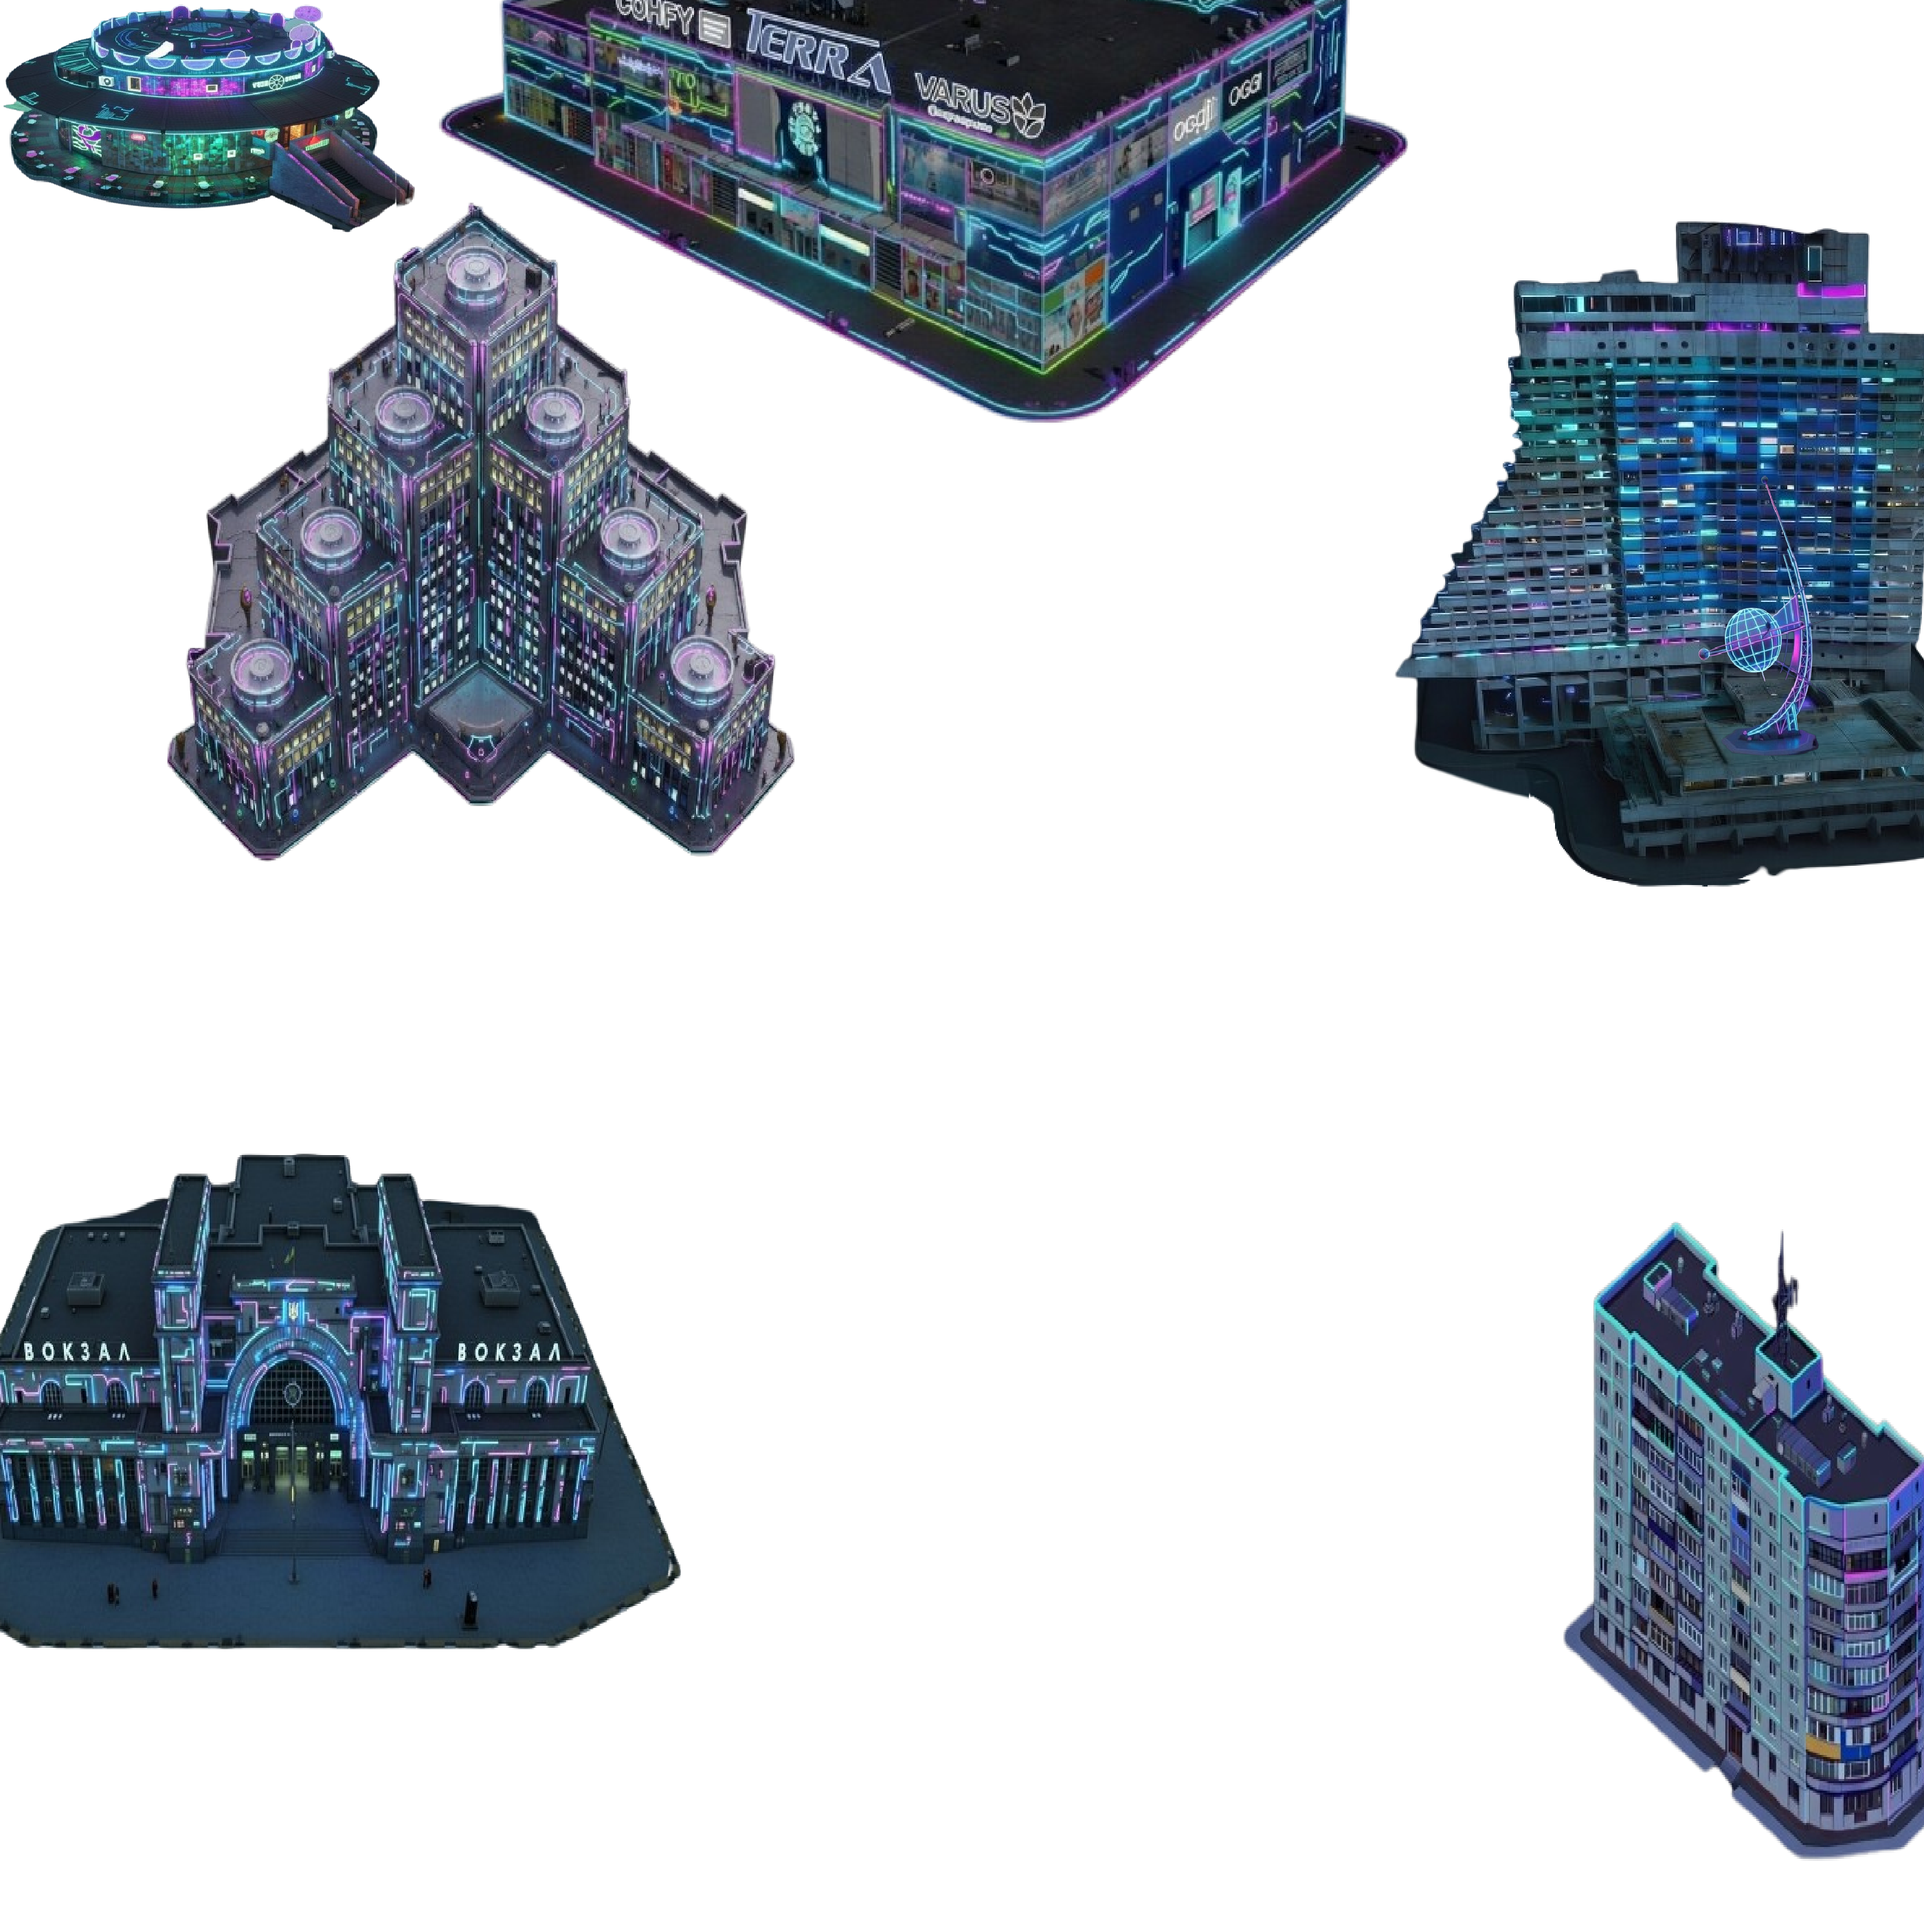
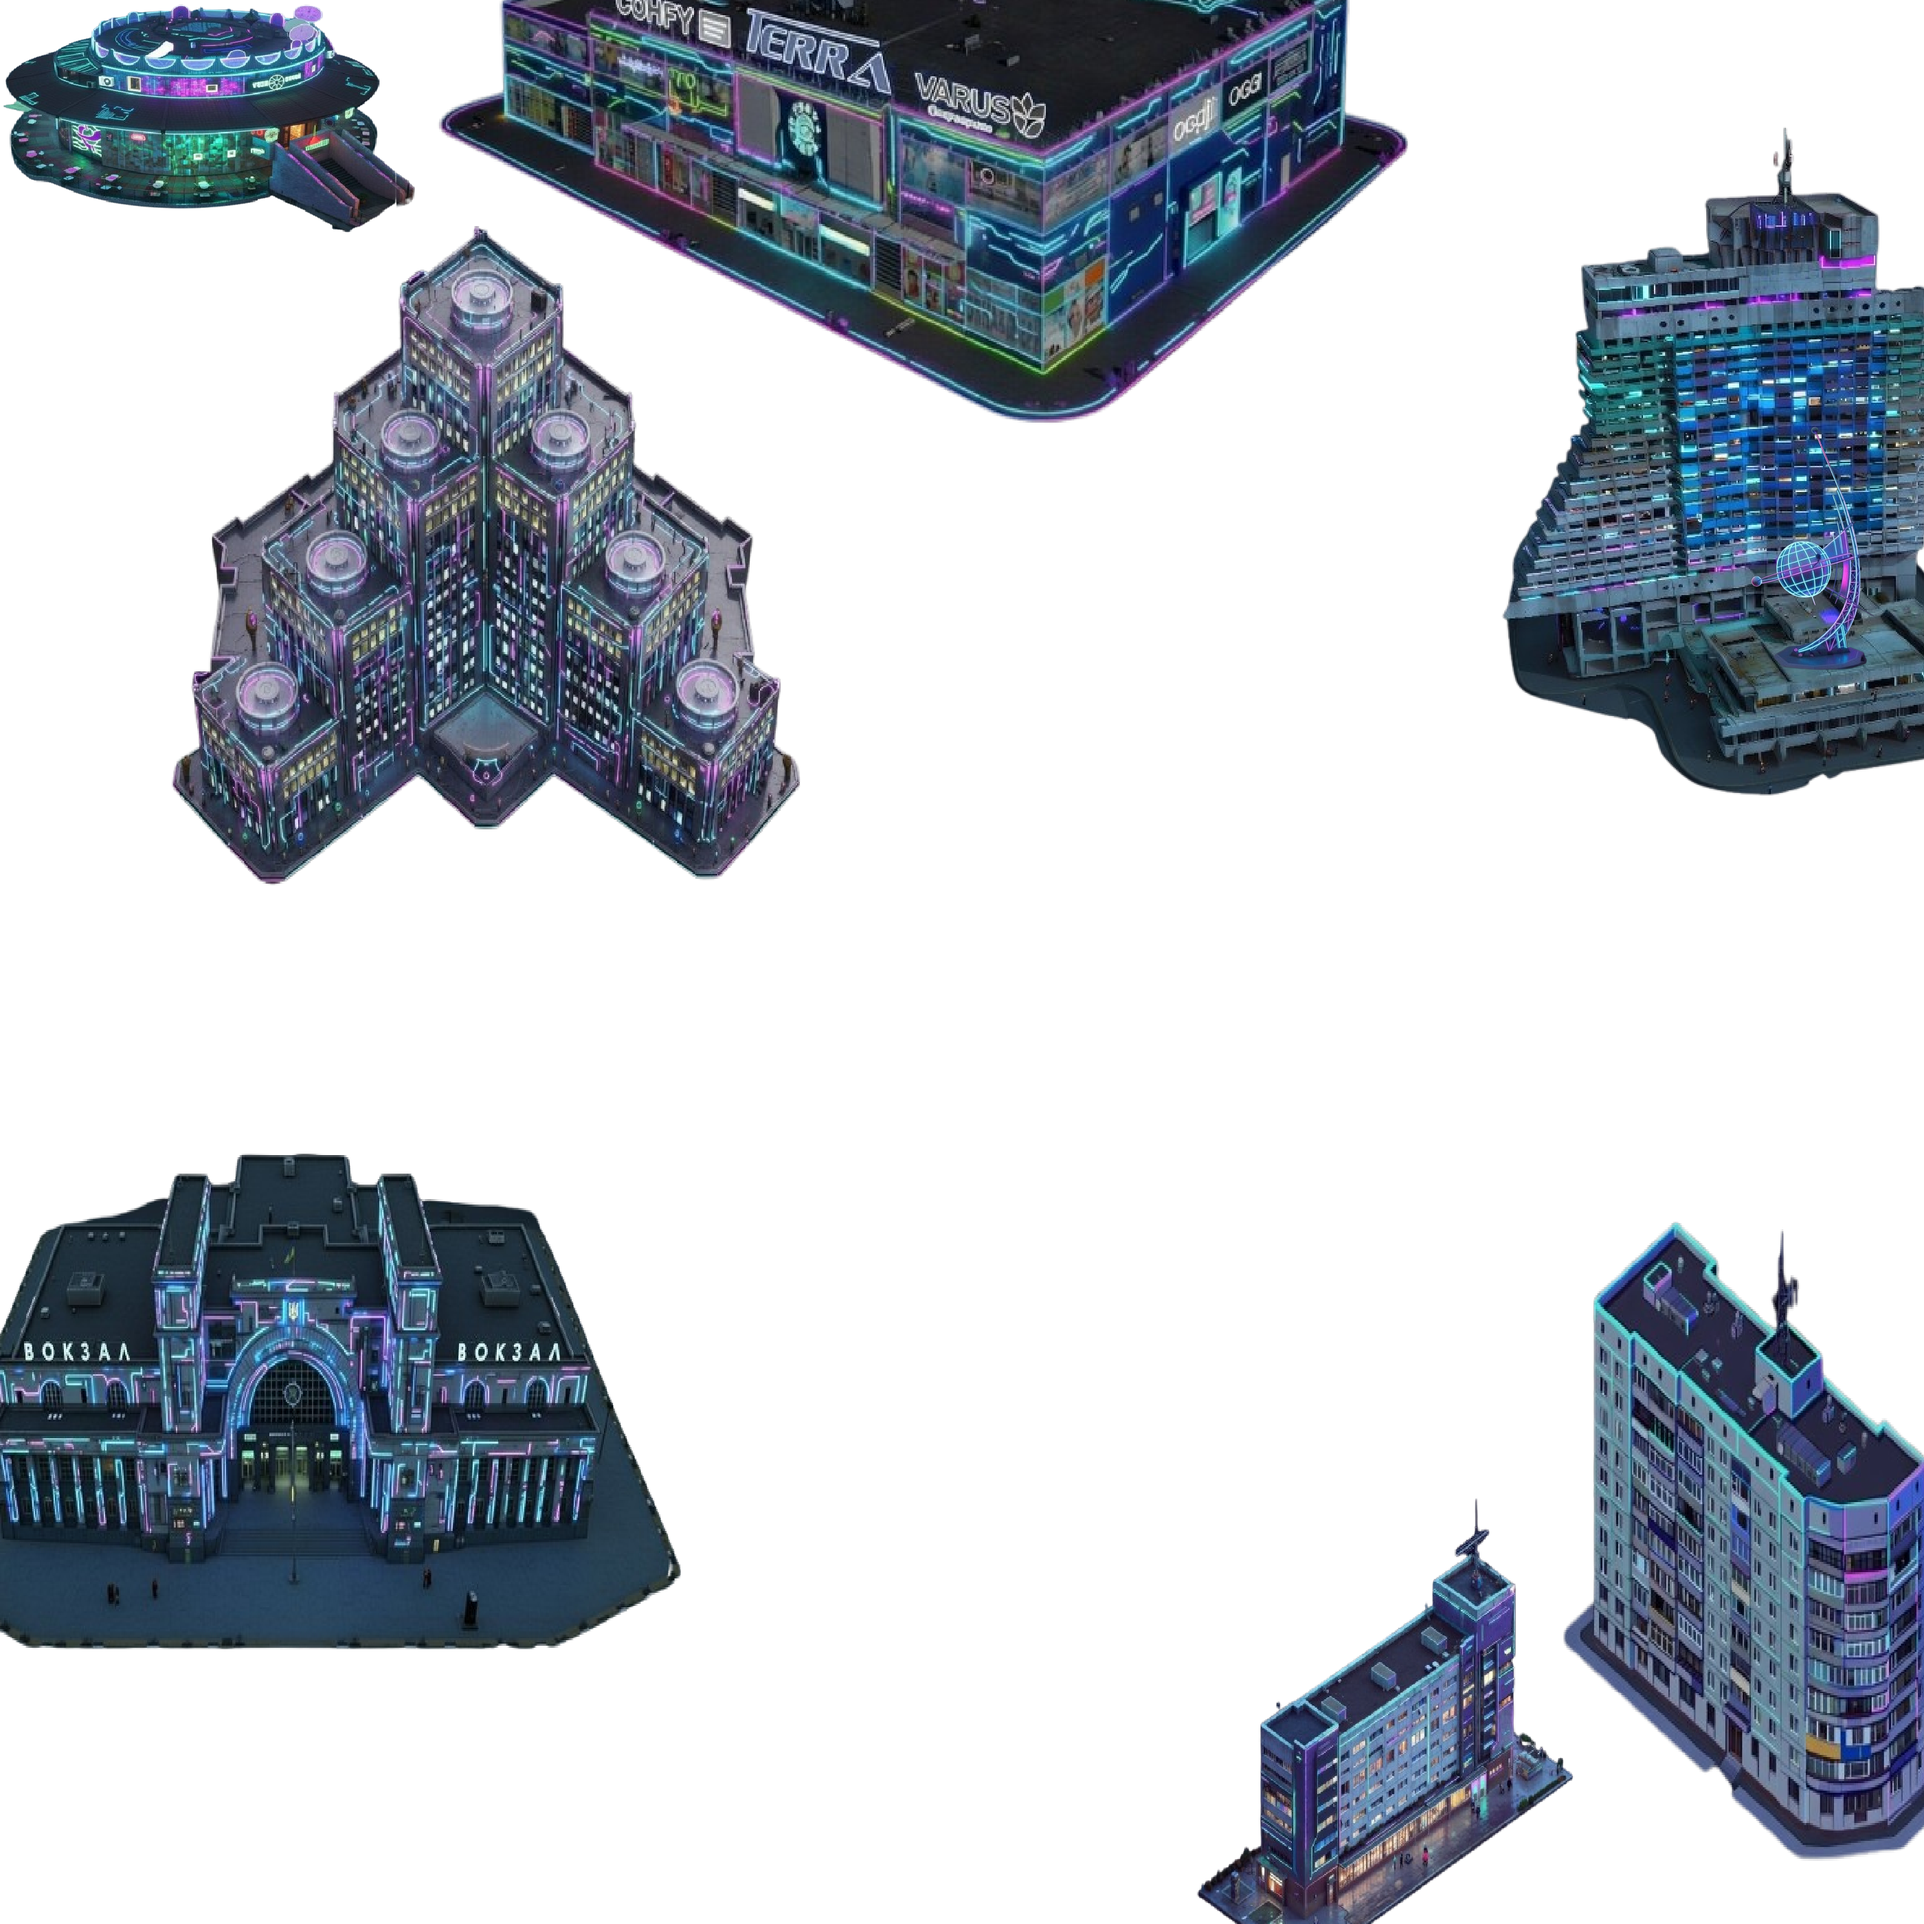
+

Changed region(s): [[0.7146, 0.0621, 1.0, 0.4661], [0.0621, 0.0932, 0.435, 0.4661], [0.6214, 0.7768, 0.8389, 1.0]]

diff --git a/public/obstacles.js b/public/obstacles.js
@@ -87,42 +87,43 @@ window.obstacles = [
     x2: 507,
     y2: 348,
   },
-
+  //Парус
   {
     worldId: 0,
     x1: 2800,
-    y1: 1257,
-    x2: 2262,
-    y2: 1289,
+    y1: 1111,
+    x2: 2442,
+    y2: 1181,
   },
   {
     worldId: 0,
-    x1: 2262,
-    y1: 1289,
-    x2: 2205,
-    y2: 1178,
+    x1: 2442,
+    y1: 1181,
+    x2: 2355,
+    y2: 1055,
   },
   {
     worldId: 0,
-    x1: 2205,
-    y1: 1178,
-    x2: 2047,
-    y2: 1123,
+    x1: 2355,
+    y1: 1055,
+    x2: 2191,
+    y2: 1014,
   },
   {
     worldId: 0,
-    x1: 2047,
-    y1: 1123,
-    x2: 2096,
-    y2: 904,
+    x1: 2191,
+    y1: 1014,
+    x2: 2179,
+    y2: 877,
   },
   {
     worldId: 0,
-    x1: 2096,
-    y1: 904,
+    x1: 2179,
+    y1: 877,
     x2: 2800,
-    y2: 904,
+    y2: 797,
   },
+
   //Вокзал
   {
     worldId: 0,

diff --git a/public/outpostCaptain.js b/public/outpostCaptain.js
@@ -3,8 +3,8 @@
 // ===============================================
 
 const OUTPOST_CAPTAIN = {
-  x: 2161,
-  y: 1226,
+  x: 2295,
+  y: 1073,
   width: 70,
   height: 70,
   interactionRadius: 50,
